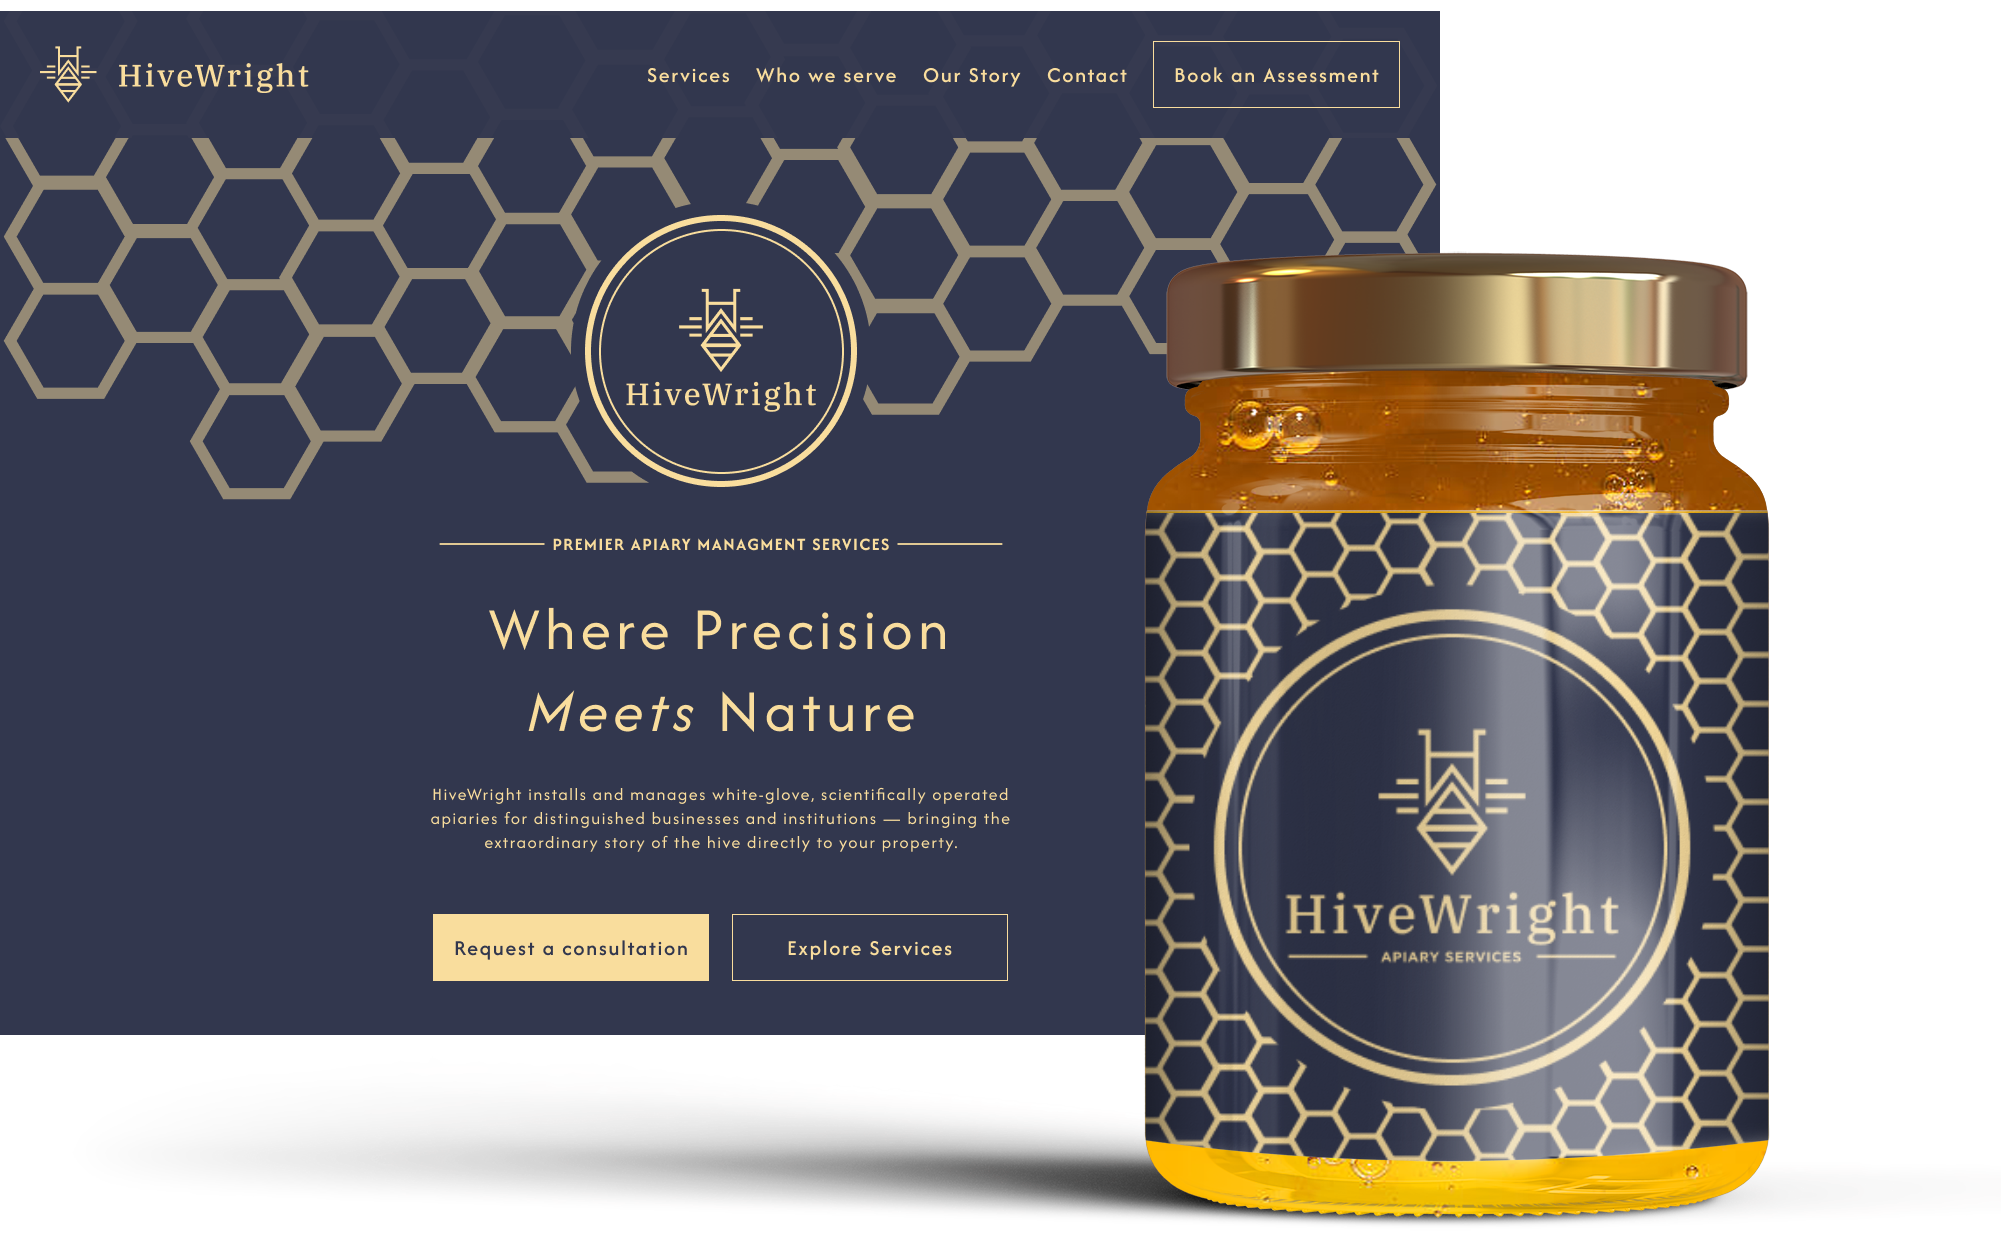
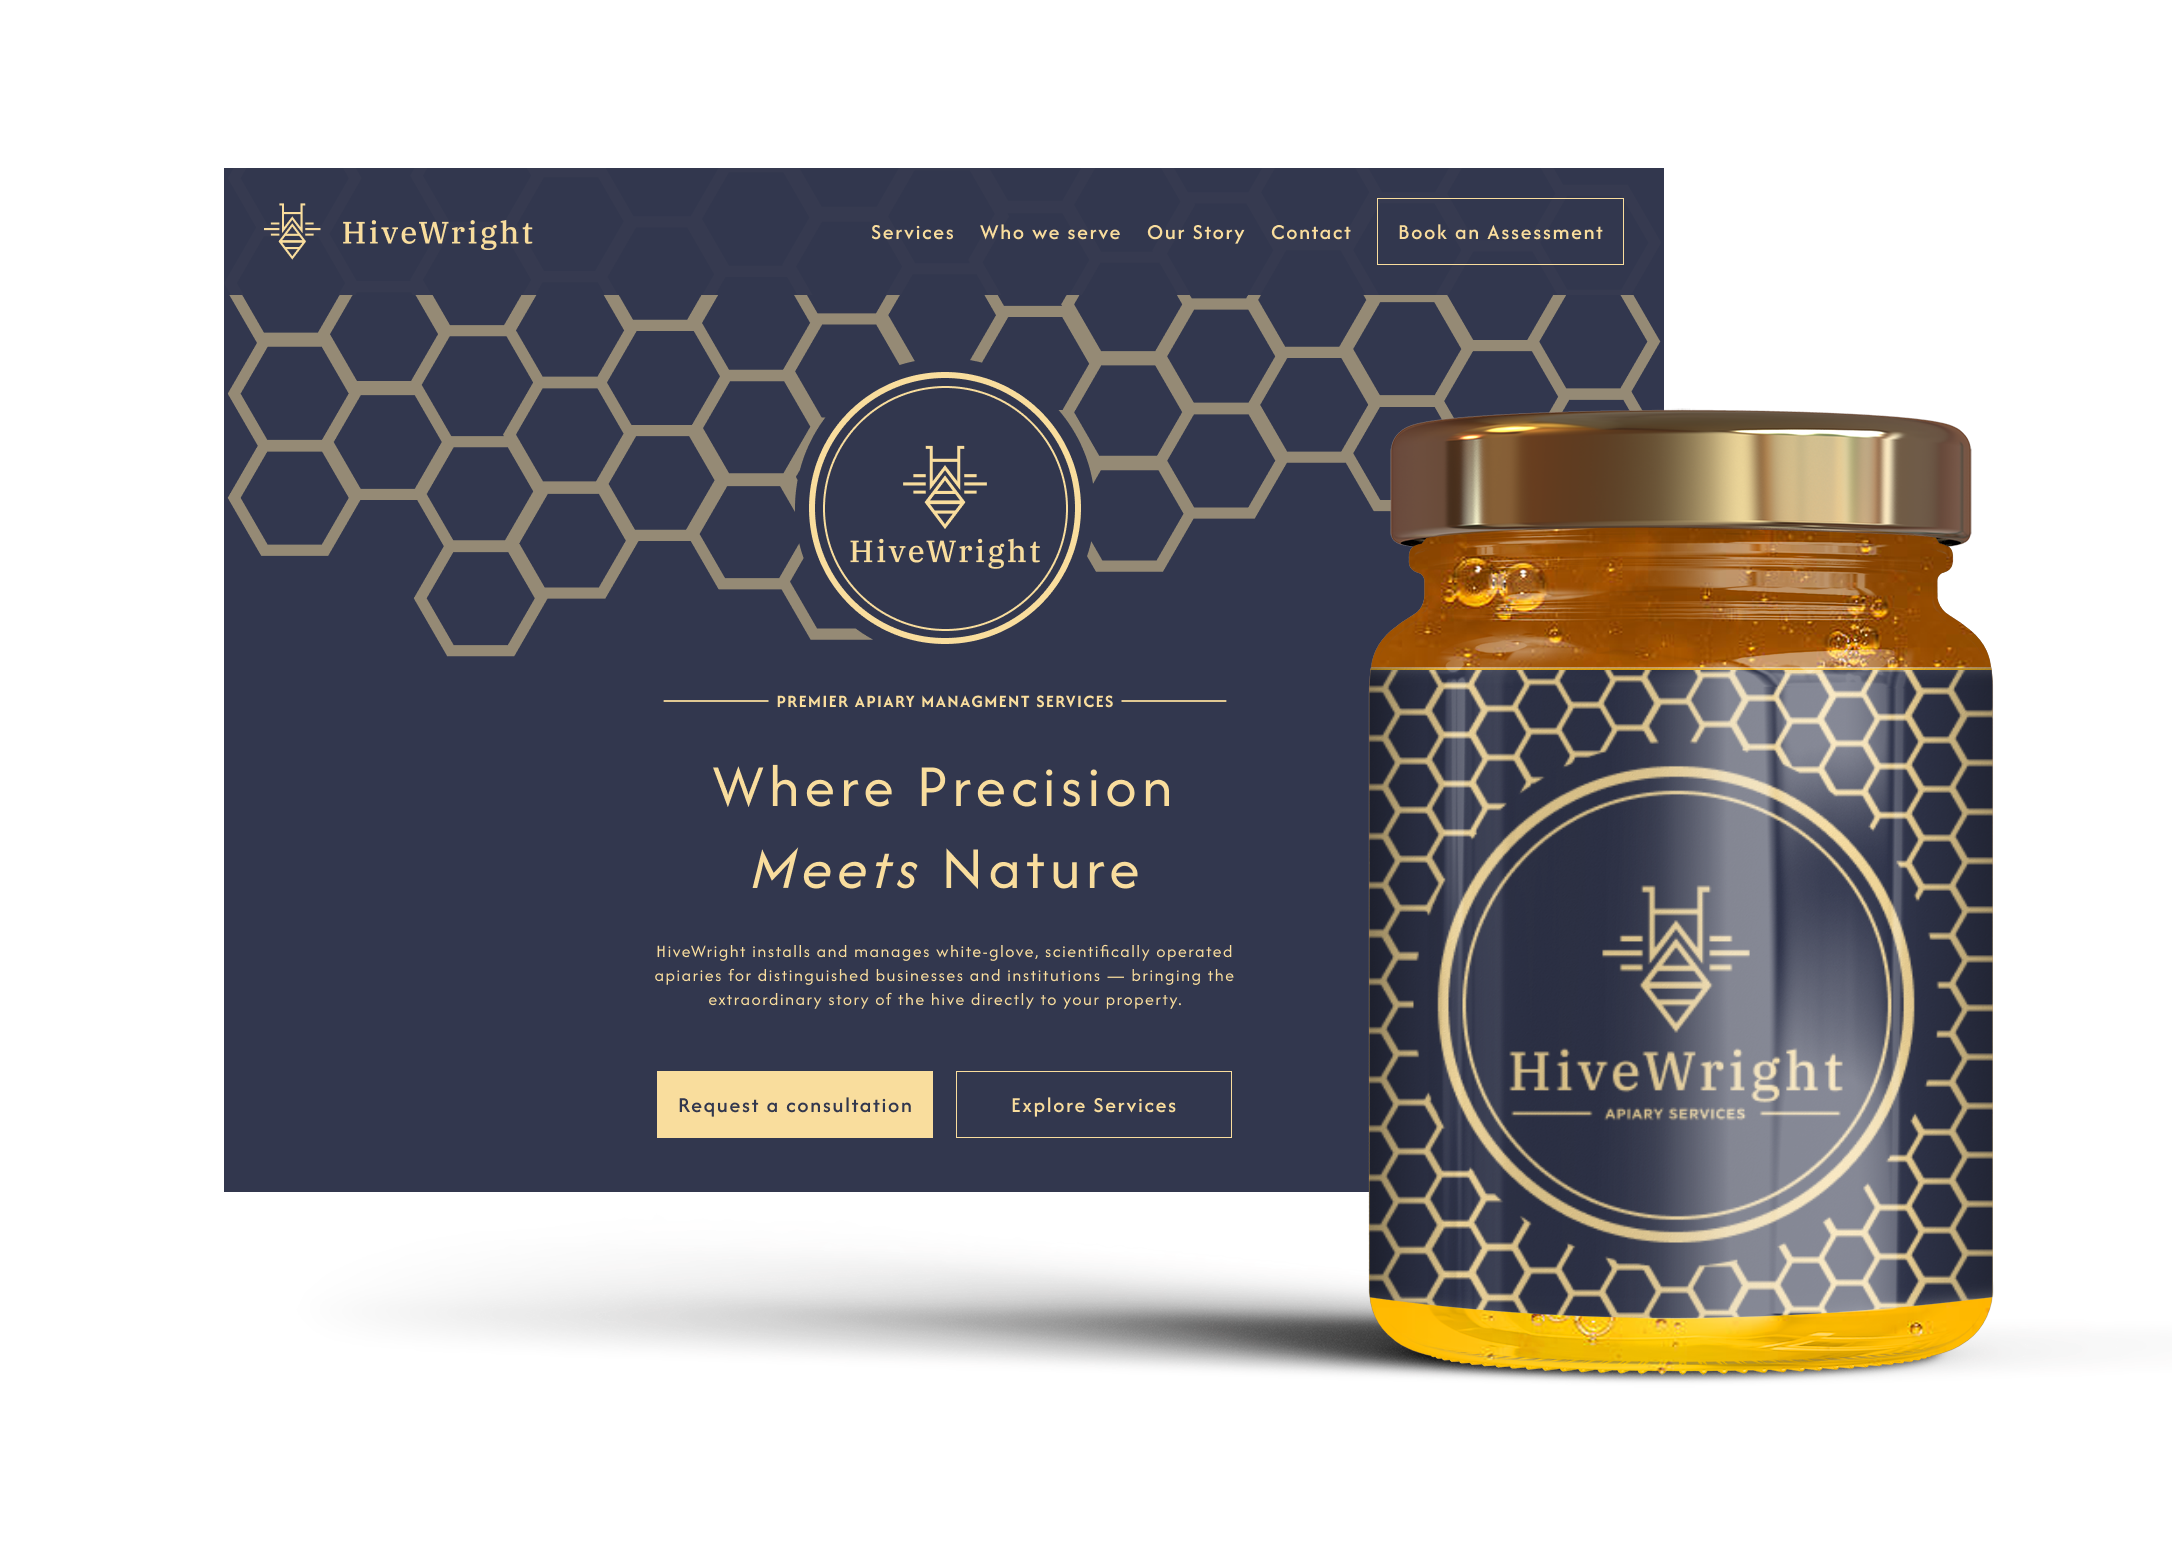
added tideturners

diff --git a/src/app/App.tsx b/src/app/App.tsx
@@ -42,29 +42,29 @@ const SKILLS = [
 
 const PROJECTS = [
   {
-    title: "Hive Wright Apiary Services",
+    title: "Hive Wright Apiary Services Startup",
     category: "Brand and product design, full service",
     year: "2026",
     desc: "Built a luxury product brand for a startup company. It included market research, color exploration, and logo monogram experimentation. Once brand was identified physical labels created and full scale responsive web design.",
-    tags: ["React", "Photoshop", "Figma", "AI"],
+    tags: ["React", "Figma Make", "Logo", "Branding", "Typography"],
     img: "src/assets/HW-promo.png",
   },
-  // {
-  //   title: "FinTech Mobile Redesign",
-  //   category: "UI/UX Design · AI-Assisted",
-  //   year: "2024",
-  //   desc: "End-to-end redesign of a FinTech app's onboarding and dashboard. Iterated in real time using Figma Make and Claude for rapid concept validation.",
-  //   tags: ["Figma Make", "Claude", "User Research", "Angular"],
-  //   img: "https://images.unsplash.com/photo-1720962158813-29b66b8e23e1?w=800&h=500&fit=crop&auto=format",
-  // },
-  // {
-  //   title: "Solstice Brand Identity",
-  //   category: "Branding & Identity",
-  //   year: "2023",
-  //   desc: "Full brand identity for a boutique wellness studio. Logo, type system, color palette, brand guidelines, and print collateral.",
-  //   tags: ["Logo", "Brand System", "Typography", "Print"],
-  //   img: "https://images.unsplash.com/photo-1597979732130-9d2ad18df38b?w=800&h=500&fit=crop&auto=format",
-  // },
+  {
+    title: "Tideturners Redesign",
+    category: "UI/UX Design · AI-Assisted",
+    year: "2025",
+    desc: "Developed foundational design system components in 2024 and enhanced the Available Games experience by implementing a toggle that allows users to easily switch between this company’s latest releases and featured game titles.",
+    tags: ["Figma", "ChatGPT", "React"],
+    img: "src/assets/tideturners.png",
+  },
+  {
+    title: "Solstice Brand Identity",
+    category: "Branding & Identity",
+    year: "2023",
+    desc: "Full brand identity for a boutique wellness studio. Logo, type system, color palette, brand guidelines, and print collateral.",
+    tags: ["Logo", "Brand System", "Typography", "Print"],
+    img: "https://images.unsplash.com/photo-1597979732130-9d2ad18df38b?w=800&h=500&fit=crop&auto=format",
+  },
 ];
 
 const PROCESS_STEPS = [
@@ -382,7 +382,7 @@ export default function App() {
             </motion.h2>
           </div>
           <motion.span {...fadeUp(0.1)} className="font-mono text-xs text-muted-foreground hidden sm:block">
-            2023–2024
+            2021–2026
           </motion.span>
         </div>
 